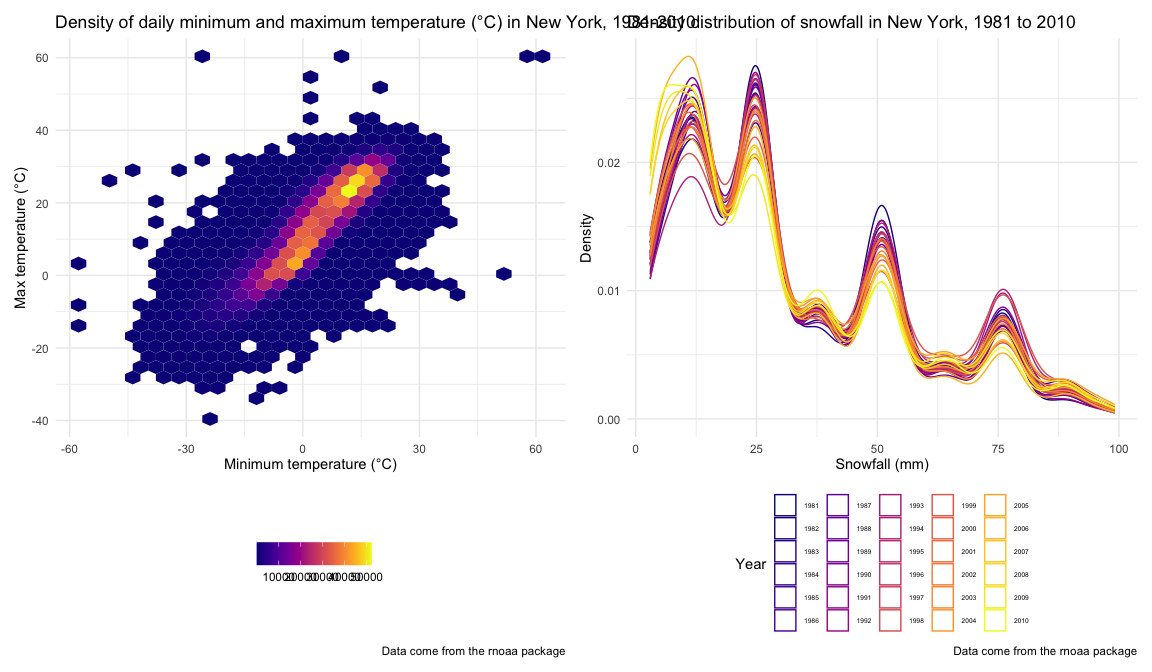
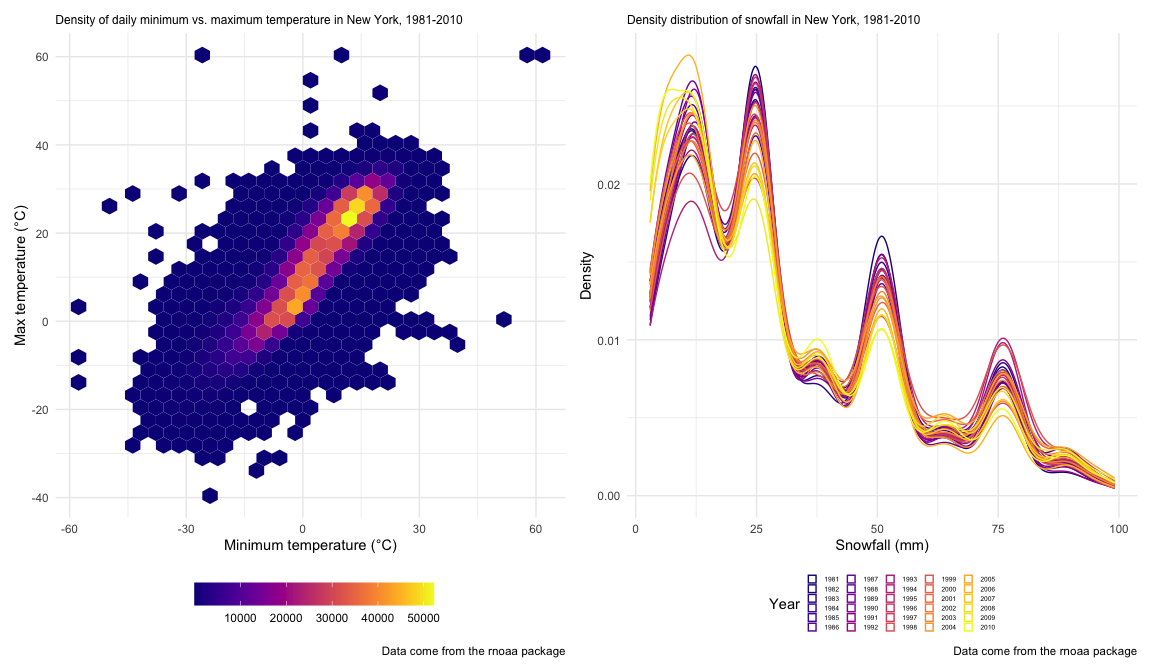
P3 configuring legends and plot text size

diff --git a/p8105_hw3_my2731.md b/p8105_hw3_my2731.md
@@ -456,9 +456,11 @@ tmax_tmin_p = noaa_clean %>%
   labs(
     x = "Minimum temperature (°C)",
     y = "Max temperature (°C)",
-    title = "Density of daily minimum and maximum temperature (°C) in New York, 1981-2010",
+    title = "Density of daily minimum vs. maximum temperature in New York, 1981-2010",
     caption = "Data come from the rnoaa package"
   ) + 
+  theme(legend.key.width = unit(0.5, "in"),
+        plot.title = element_text(size = 9)) +
   viridis::scale_fill_viridis(name = "", option = "plasma")
 
 snowfall_p = noaa_clean %>% 
@@ -468,11 +470,13 @@ snowfall_p = noaa_clean %>%
   labs(
     x = "Snowfall (mm)",
     y = "Density",
-    title = "Density distribution of snowfall in New York, 1981 to 2010",
+    title = "Density distribution of snowfall in New York, 1981-2010",
     colour = "Year",
     caption = "Data come from the rnoaa package"
   ) + 
-  theme(legend.text = element_text(size = 5)) + 
+  theme(legend.text = element_text(size = 5), 
+        legend.key.size = unit(0.1, "in"),
+        plot.title = element_text(size = 9)) + 
   viridis::scale_colour_viridis(discrete = TRUE, option = "plasma")
 
 tmax_tmin_p + snowfall_p
